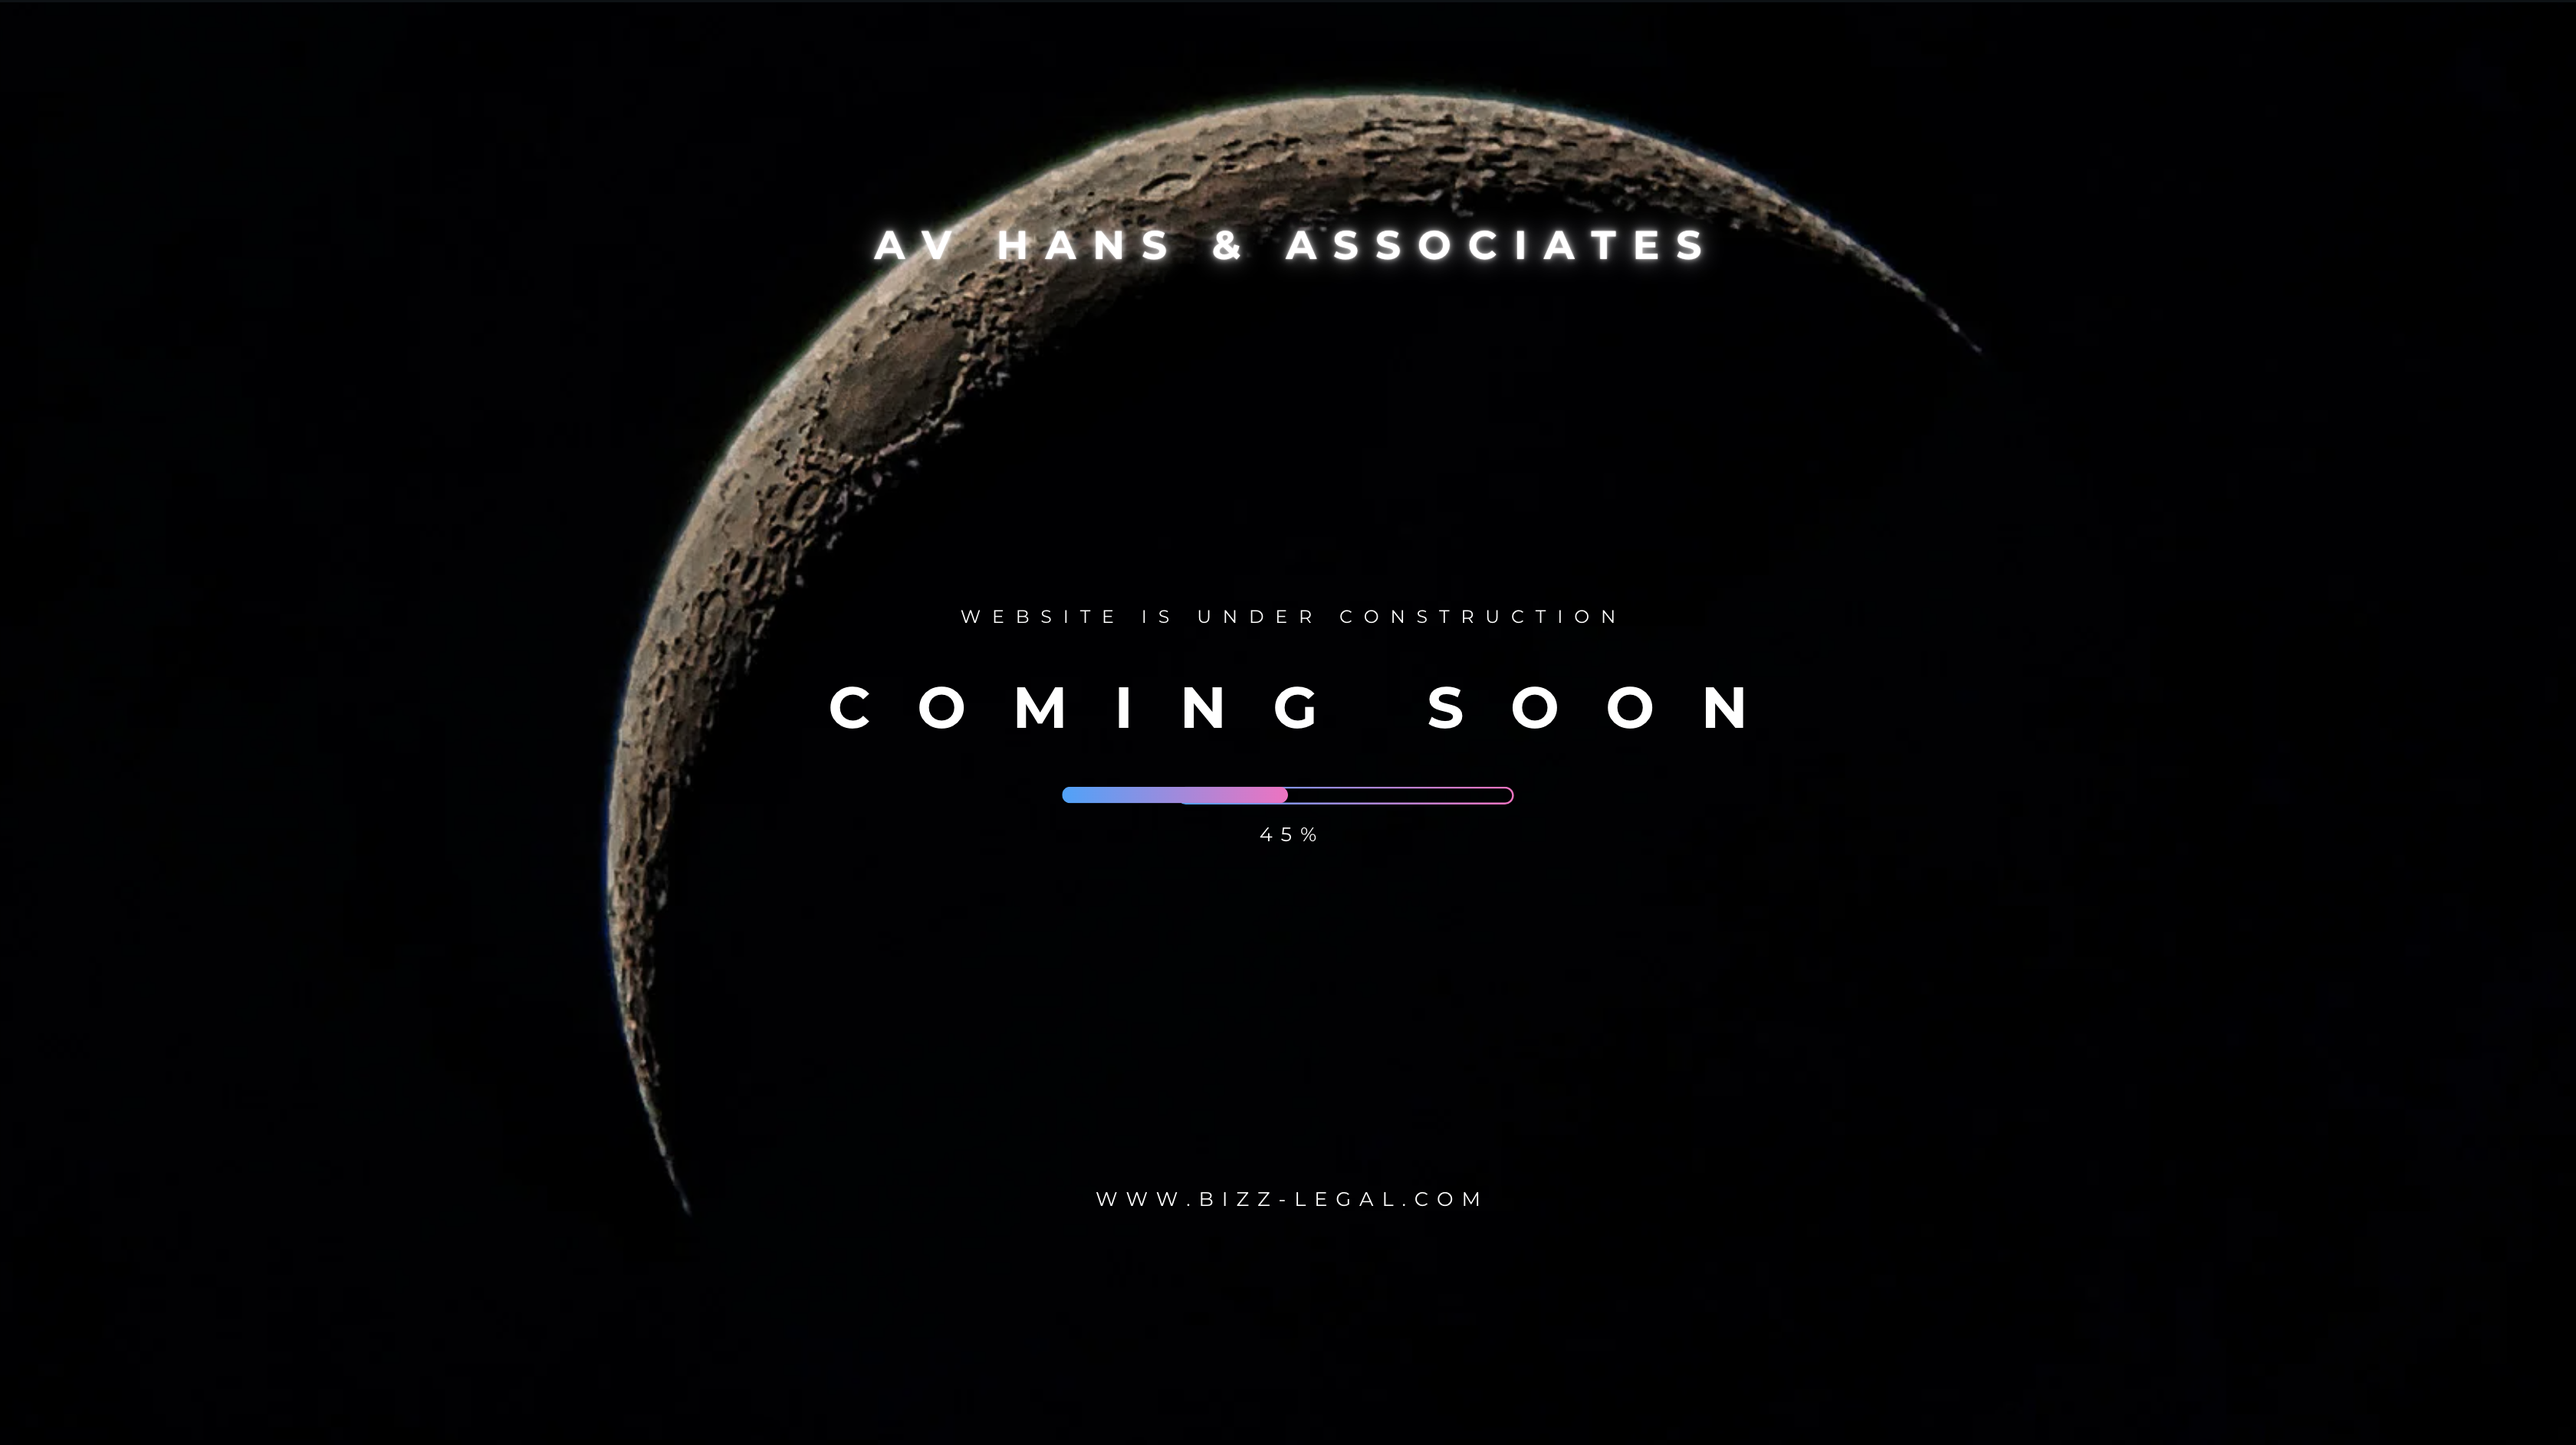
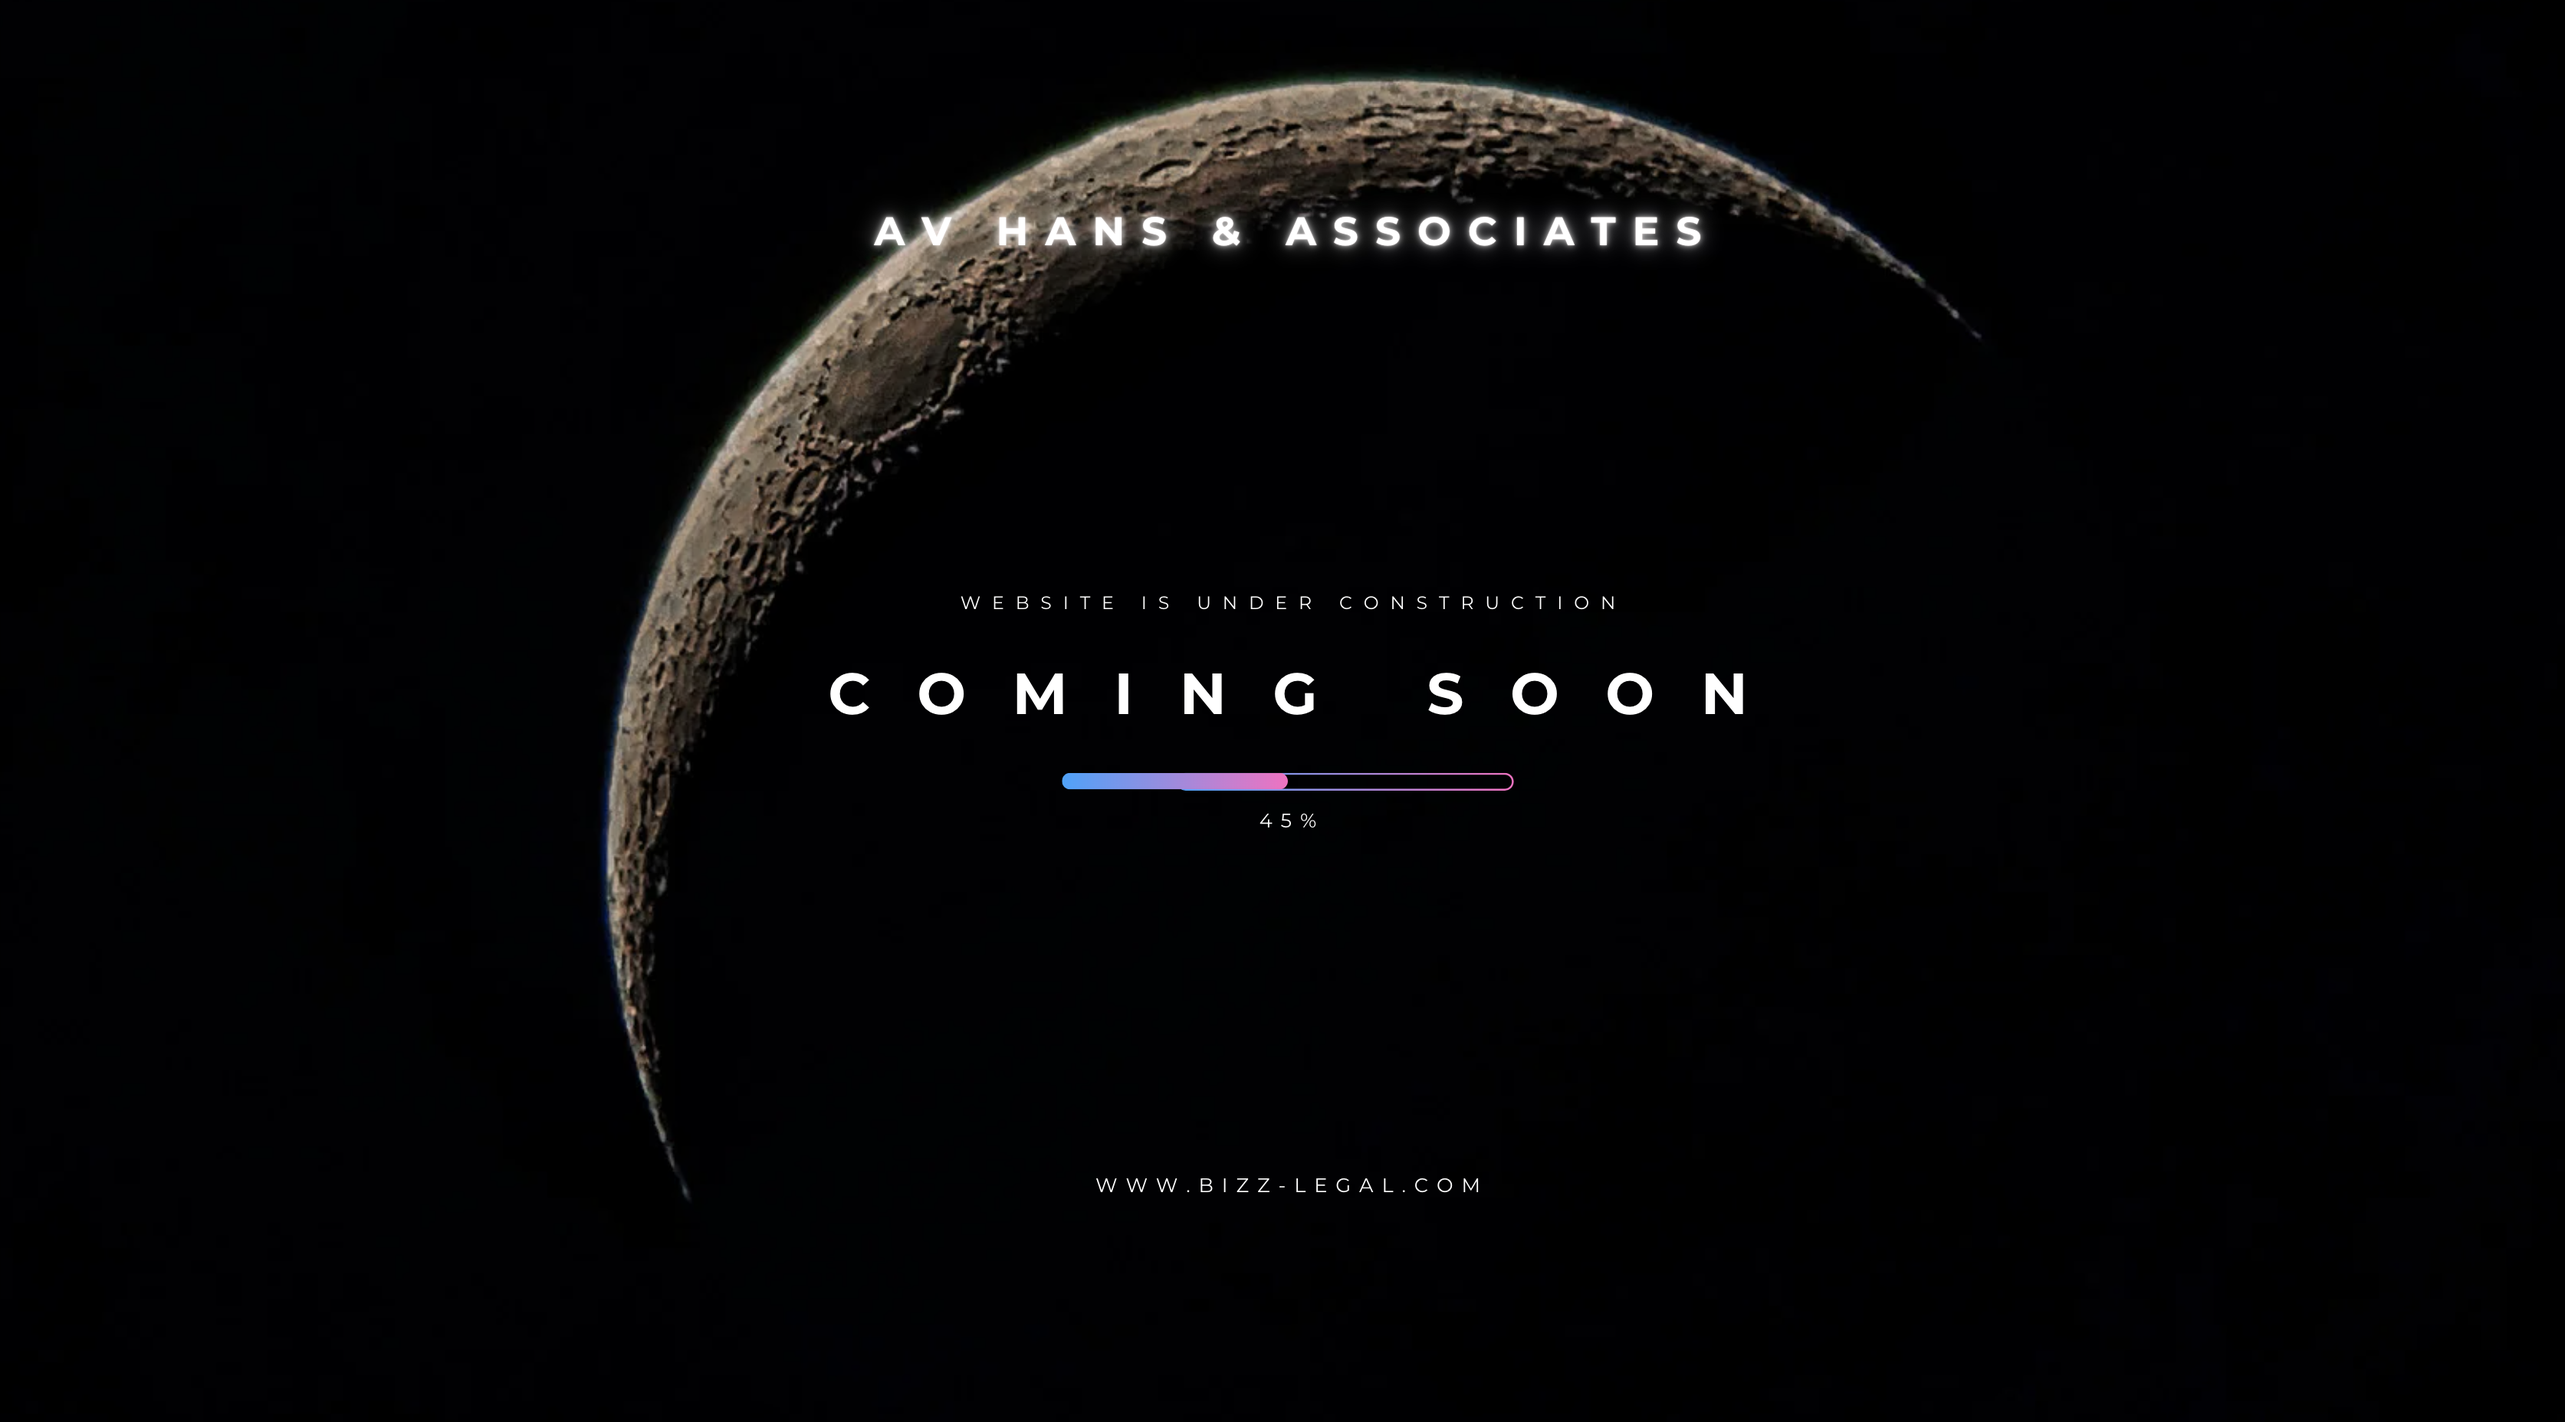
new

diff --git a/index.html b/index.html
@@ -27,8 +27,17 @@
         object-fit: cover;
         object-position: center;
       }
-      @media screen and (max-width: 768px) {
-        /* Your CSS rules here */
+      @media screen and (max-width: 556px) {
+        .home {
+    height: 80%;
+    width: 100%;
+}
+      }
+      @media screen and (max-width: 421px) {
+        .home {
+    height: 60%;
+    width: 100%;
+}
       }
     </style>
   </head>
